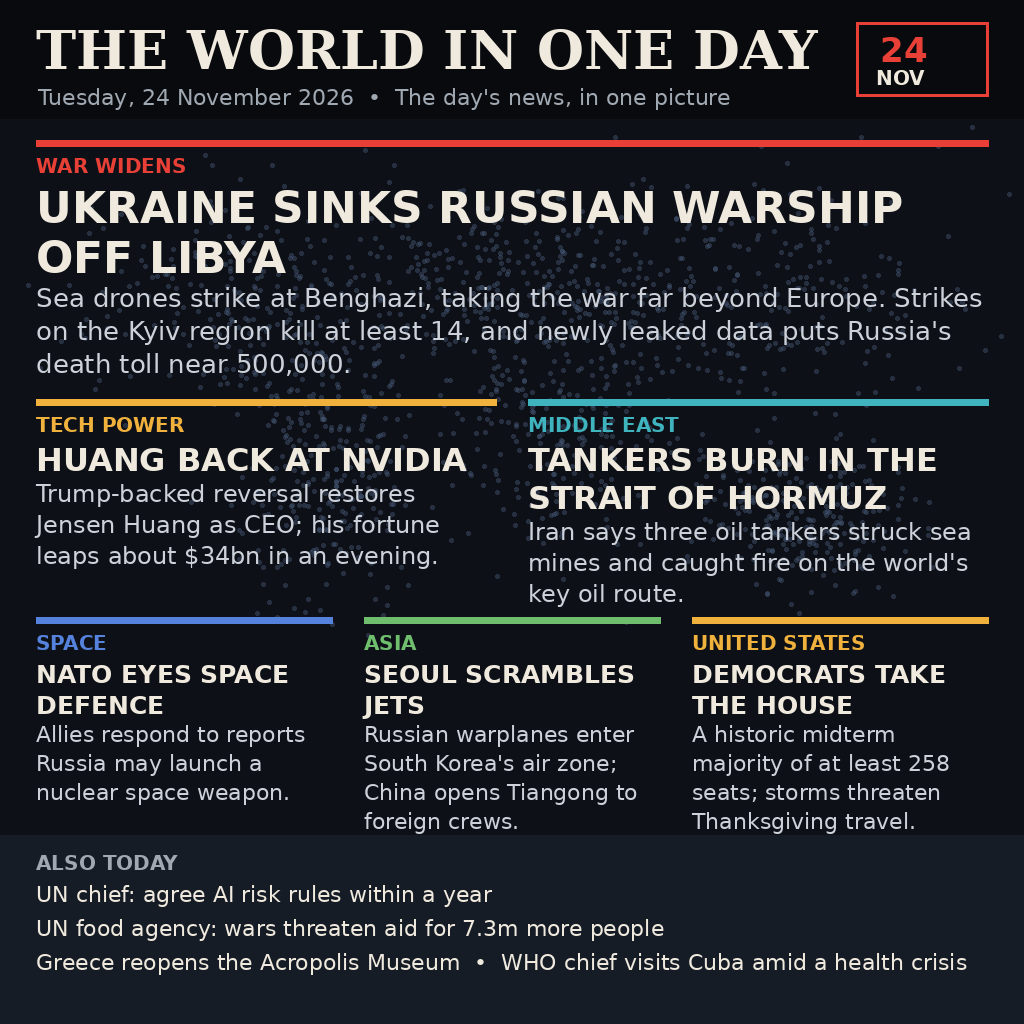
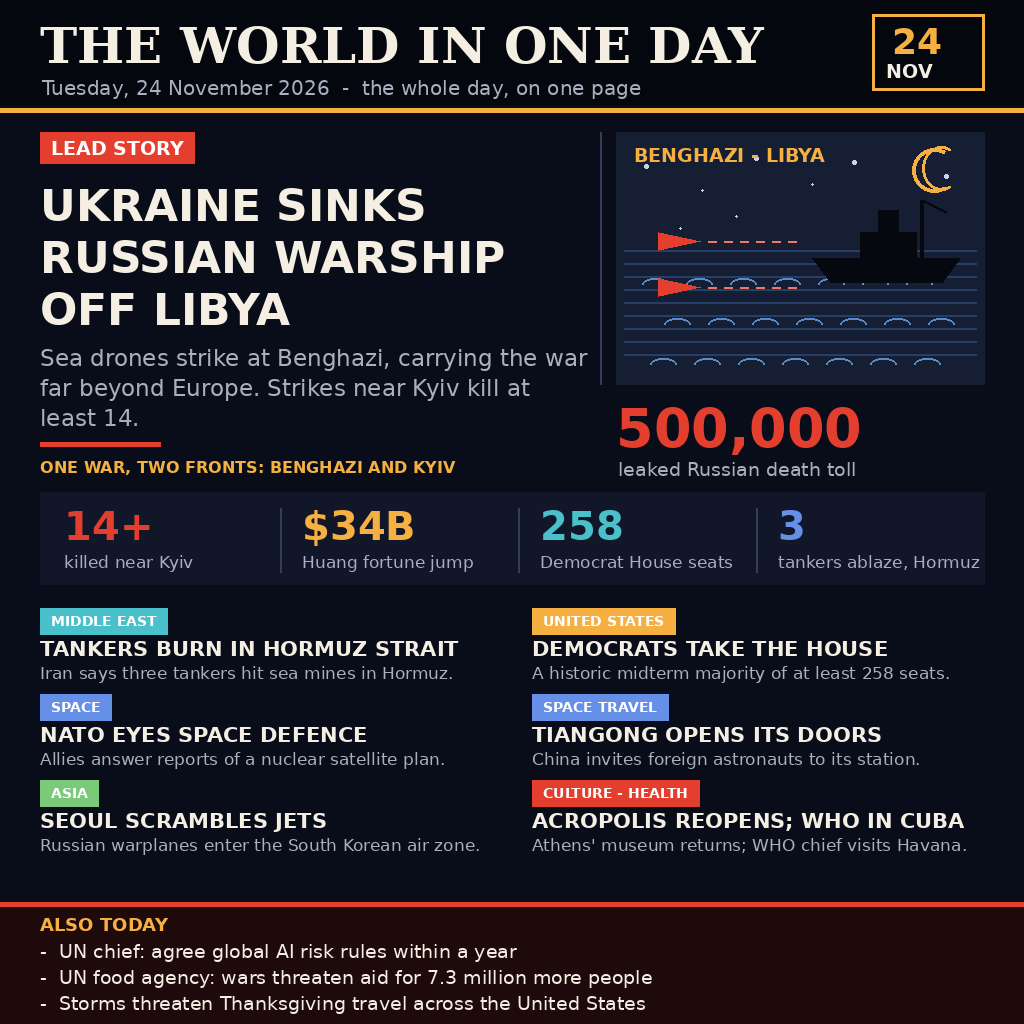
News image v2: rich magazine front page for 24 Nov 2026

diff --git a/build_image.py b/build_image.py
@@ -1,115 +1,195 @@
 #!/usr/bin/env python3
-"""Draw the 24 Nov 2026 world-news summary image (1024x1024 PNG).
+"""v2 front page: 24 Nov 2026 world news as a rich magazine cover.
 
-Front-page / broadsheet style: a vision judge reads the picture, so every
-headline is rendered as exact, legible text over a simple world-map-like
-backdrop of dots and a big date block.
+Deep-navy broadsheet with an amber/red accent system: a dominant lead
+story with a drawn sea-battle panel, a band of big-number stats, two
+columns of tagged stories and a ticker strip along the bottom.
+Rendered with Pillow at 1024x1024.
 """
+import math
+import os
+
 from PIL import Image, ImageDraw, ImageFont
 
-W = H = 1024
-BG = (13, 17, 23)
-PAPER = (240, 234, 222)
-ACCENT = (232, 64, 54)      # red
-GOLD = (240, 178, 60)
-TEAL = (64, 180, 190)
-BLUE = (84, 130, 220)
-GREEN = (110, 190, 110)
-GREY = (160, 168, 178)
-DARKPANEL = (22, 28, 38)
+SIZE = 1024
+NAVY = (9, 13, 25)
+PANEL = (17, 23, 40)
+PANEL2 = (22, 30, 52)
+INK = (245, 239, 227)
+MUTE = (168, 176, 192)
+AMBER = (245, 176, 65)
+RED = (228, 62, 47)
+TEAL = (74, 192, 202)
+BLUE = (102, 144, 232)
+GREEN = (122, 202, 122)
+WHITE = (255, 255, 255)
 
-BOLD = "/usr/share/fonts/truetype/dejavu/DejaVuSans-Bold.ttf"
-REG = "/usr/share/fonts/truetype/dejavu/DejaVuSans.ttf"
-SERIFB = "/usr/share/fonts/truetype/dejavu/DejaVuSerif-Bold.ttf"
+FB = "/usr/share/fonts/truetype/dejavu/DejaVuSans-Bold.ttf"
+FR = "/usr/share/fonts/truetype/dejavu/DejaVuSans.ttf"
+FS = "/usr/share/fonts/truetype/dejavu/DejaVuSerif-Bold.ttf"
 
-def f(path, size):
-    return ImageFont.truetype(path, size)
+canvas = Image.new("RGB", (SIZE, SIZE), NAVY)
+pen = ImageDraw.Draw(canvas, "RGBA")
 
-img = Image.new("RGB", (W, H), BG)
-d = ImageDraw.Draw(img, "RGBA")
 
-# dotted world backdrop (stylised continents as dot clusters)
-import random
-random.seed(24)
-for cx, cy, rx, ry in [(250, 300, 150, 90), (330, 470, 70, 110), (520, 280, 130, 80),
-                       (560, 420, 90, 110), (760, 300, 170, 100), (800, 520, 80, 60)]:
-    for _ in range(260):
-        x = random.gauss(cx, rx / 1.7)
-        y = random.gauss(cy, ry / 1.7)
-        if 0 < x < W and 0 < y < H:
-            d.ellipse([x - 2, y - 2, x + 2, y + 2], fill=(70, 90, 120, 110))
+def typeface(path, px):
+    return ImageFont.truetype(path, px)
 
-def wrap(text, font, width):
-    words, lines, cur = text.split(), [], ""
-    for w in words:
-        t = (cur + " " + w).strip()
-        if d.textlength(t, font=font) <= width:
-            cur = t
+
+def lines_for(text, face, width):
+    """Greedy word-wrap using real glyph widths."""
+    out, cur = [], ""
+    for word in text.split():
+        trial = (cur + " " + word).strip()
+        if pen.textlength(trial, font=face) <= width:
+            cur = trial
         else:
-            lines.append(cur); cur = w
+            out.append(cur)
+            cur = word
     if cur:
-        lines.append(cur)
-    return lines
+        out.append(cur)
+    return out
 
-def block(x, y, w, tag, tagcolor, headline, hsize, body, bsize=25, hcolor=PAPER):
-    d.rectangle([x, y, x + w, y + 6], fill=tagcolor)
-    d.text((x, y + 14), tag, font=f(BOLD, 20), fill=tagcolor)
-    yy = y + 42
-    for ln in wrap(headline, f(BOLD, hsize), w):
-        d.text((x, yy), ln, font=f(BOLD, hsize), fill=hcolor)
-        yy += hsize + 6
-    for ln in wrap(body, f(REG, bsize), w):
-        d.text((x, yy), ln, font=f(REG, bsize), fill=(205, 210, 218))
-        yy += bsize + 7
-    return yy
 
-# masthead
-d.rectangle([0, 0, W, 118], fill=(8, 10, 14))
-d.text((36, 18), "THE WORLD IN ONE DAY", font=f(SERIFB, 54), fill=PAPER)
-d.text((38, 84), "Tuesday, 24 November 2026  •  The day's news, in one picture", font=f(REG, 22), fill=GREY)
-d.rectangle([856, 22, 988, 96], outline=ACCENT, width=3)
-d.text((880, 30), "24", font=f(BOLD, 34), fill=ACCENT)
-d.text((876, 66), "NOV", font=f(BOLD, 20), fill=PAPER)
+def para(x, y, text, face, width, colour, leading):
+    for ln in lines_for(text, face, width):
+        pen.text((x, y), ln, font=face, fill=colour)
+        y += leading
+    return y
 
-# lead story
-y = block(36, 140, 952, "WAR WIDENS", ACCENT,
-          "UKRAINE SINKS RUSSIAN WARSHIP OFF LIBYA", 44,
-          "Sea drones strike at Benghazi, taking the war far beyond Europe. Strikes on the Kyiv region kill at least 14, and newly leaked data puts Russia's death toll near 500,000.", 26)
 
-# two columns, second row
-y2 = max(y + 18, 356)
-block(36, y2, 460, "TECH POWER", GOLD,
-      "HUANG BACK AT NVIDIA", 32,
-      "Trump-backed reversal restores Jensen Huang as CEO; his fortune leaps about $34bn in an evening.", 24)
-block(528, y2, 460, "MIDDLE EAST", TEAL,
-      "TANKERS BURN IN THE STRAIT OF HORMUZ", 32,
-      "Iran says three oil tankers struck sea mines and caught fire on the world's key oil route.", 24)
+def chip(x, y, label, colour, txt=WHITE, px=19):
+    face = typeface(FB, px)
+    w = pen.textlength(label, font=face) + 22
+    pen.rectangle([x, y, x + w, y + px + 12], fill=colour)
+    pen.text((x + 11, y + 5), label, font=face, fill=txt)
+    return w
 
-# third row, three columns
-y3 = y2 + 218
-block(36, y3, 296, "SPACE", BLUE,
-      "NATO EYES SPACE DEFENCE", 25,
-      "Allies respond to reports Russia may launch a nuclear space weapon.", 22)
-block(364, y3, 296, "ASIA", GREEN,
-      "SEOUL SCRAMBLES JETS", 25,
-      "Russian warplanes enter South Korea's air zone; China opens Tiangong to foreign crews.", 22)
-block(692, y3, 296, "UNITED STATES", GOLD,
-      "DEMOCRATS TAKE THE HOUSE", 25,
-      "A historic midterm majority of at least 258 seats; storms threaten Thanksgiving travel.", 22)
 
-# bottom strip
-y4 = y3 + 218
-d.rectangle([0, y4, W, H], fill=DARKPANEL)
-d.text((36, y4 + 16), "ALSO TODAY", font=f(BOLD, 20), fill=GREY)
-d.text((36, y4 + 46),
-       "UN chief: agree AI risk rules within a year",
-       font=f(REG, 22), fill=PAPER)
-d.text((36, y4 + 80),
-       "UN food agency: wars threaten aid for 7.3m more people",
-       font=f(REG, 22), fill=PAPER)
-d.text((36, y4 + 114),
-       "Greece reopens the Acropolis Museum  •  WHO chief visits Cuba amid a health crisis",
-       font=f(REG, 22), fill=PAPER)
+# ---------------------------------------------------------------- masthead
+pen.rectangle([0, 0, SIZE, 104], fill=(5, 7, 14))
+pen.text((40, 16), "THE WORLD IN ONE DAY", font=typeface(FS, 50), fill=INK)
+pen.text((42, 76), "Tuesday, 24 November 2026  -  the whole day, on one page",
+         font=typeface(FR, 20), fill=MUTE)
+pen.rectangle([872, 14, 984, 90], outline=AMBER, width=3)
+pen.text((892, 20), "24", font=typeface(FB, 36), fill=AMBER)
+pen.text((886, 60), "NOV", font=typeface(FB, 19), fill=INK)
+pen.rectangle([0, 108, SIZE, 112], fill=AMBER)
 
-img.save("/home/hatch/workspace/makefun/entry-news-image/entry.png")
-print("saved")
+# ---------------------------------------------------------------- lead story
+LX, LY, LW = 40, 132, 548
+chip(LX, LY, "LEAD STORY", RED)
+head_face = typeface(FB, 44)
+hy = para(LX, LY + 48,
+          "UKRAINE SINKS RUSSIAN WARSHIP OFF LIBYA",
+          head_face, LW, INK, 52)
+para(LX, hy + 8,
+     "Sea drones strike at Benghazi, carrying the war far beyond "
+     "Europe. Strikes near Kyiv kill at least 14.",
+     typeface(FR, 23), LW, MUTE, 30)
+pen.rectangle([LX, hy + 106, LX + 120, hy + 110], fill=RED)
+pen.text((LX, hy + 122), "ONE WAR, TWO FRONTS: BENGHAZI AND KYIV",
+         font=typeface(FB, 16), fill=AMBER)
+
+# lead visual panel: night sea, warship silhouette, incoming sea drones
+VX, VY, VW, VH = 616, 132, 368, 252
+pen.rectangle([VX, VY, VX + VW, VY + VH], fill=PANEL2)
+pen.line([600, VY, 600, VY + VH], fill=(52, 62, 90), width=2)
+for sx, sy, sr in ((30, 34, 2), (86, 58, 1), (140, 26, 2), (196, 52, 1),
+                   (238, 30, 2), (120, 84, 1), (64, 96, 1), (330, 44, 2)):
+    pen.ellipse([VX + sx - sr, VY + sy - sr, VX + sx + sr, VY + sy + sr],
+                fill=(200, 210, 235))
+pen.arc([VX + 296, VY + 16, VX + 340, VY + 60], 60, 300, fill=AMBER, width=4)
+pen.arc([VX + 306, VY + 14, VX + 344, VY + 58], 60, 300, fill=AMBER, width=3)
+for i in range(9):  # sea bands
+    yy = VY + 118 + i * 13
+    pen.line([VX + 8, yy, VX + VW - 8, yy], fill=(38, 62, 104), width=2)
+for sx in range(VX + 26, VX + VW - 70, 44):  # wave crests
+    for row, off in ((146, 0), (186, 22), (226, 8)):
+        pen.arc([sx + off, VY + row, sx + off + 26, VY + row + 12],
+                180, 360, fill=(90, 140, 200), width=2)
+# warship silhouette (right side of panel)
+ship = [(VX + 196, VY + 126), (VX + 344, VY + 126), (VX + 326, VY + 150),
+        (VX + 214, VY + 150)]
+pen.polygon(ship, fill=(6, 8, 16))
+pen.rectangle([VX + 244, VY + 100, VX + 300, VY + 126], fill=(6, 8, 16))
+pen.rectangle([VX + 262, VY + 78, VX + 282, VY + 100], fill=(6, 8, 16))
+pen.line([VX + 306, VY + 126, VX + 306, VY + 68], fill=(6, 8, 16), width=4)
+pen.line([VX + 306, VY + 68, VX + 330, VY + 80], fill=(6, 8, 16), width=3)
+# two sea drones (left) with dashed wakes aimed at the ship
+for dy in (100, 146):
+    pen.polygon([(VX + 42, VY + dy), (VX + 84, VY + dy + 9),
+                 (VX + 42, VY + dy + 18)], fill=RED)
+    for t in range(6):
+        x0 = VX + 92 + t * 16
+        pen.line([x0, VY + dy + 9, x0 + 8, VY + dy + 9],
+                 fill=(240, 120, 100), width=2)
+pen.text((VX + 18, VY + 12), "BENGHAZI - LIBYA", font=typeface(FB, 19),
+         fill=AMBER)
+# big toll figure under the panel
+pen.text((VX, VY + VH + 12), "500,000", font=typeface(FB, 54), fill=RED)
+pen.text((VX + 2, VY + VH + 74), "leaked Russian death toll",
+         font=typeface(FR, 19), fill=MUTE)
+
+# ---------------------------------------------------------------- stat band
+SY = 492
+pen.rectangle([40, SY, 984, SY + 92], fill=PANEL)
+stats = [("14+", "killed near Kyiv", RED),
+         ("$34B", "Huang fortune jump", AMBER),
+         ("258", "Democrat House seats", TEAL),
+         ("3", "tankers ablaze, Hormuz", BLUE)]
+for i, (num, label, colour) in enumerate(stats):
+    cx = 64 + i * 238
+    if i:
+        pen.line([cx - 22, SY + 16, cx - 22, SY + 80], fill=(52, 62, 90),
+                 width=2)
+    pen.text((cx, SY + 10), num, font=typeface(FB, 40), fill=colour)
+    pen.text((cx, SY + 60), label, font=typeface(FR, 17), fill=MUTE)
+
+# ---------------------------------------------------------------- story columns
+def story(x, y, w, tag, colour, headline, body):
+    chip(x, y, tag, colour, px=14)
+    yy = para(x, y + 28, headline, typeface(FB, 21), w, INK, 25)
+    yy = para(x, yy + 2, body, typeface(FR, 17), w, MUTE, 21)
+    return yy + 10
+
+
+COLW = 452
+y = 608
+y = story(40, y, COLW, "MIDDLE EAST", TEAL,
+          "TANKERS BURN IN HORMUZ STRAIT",
+          "Iran says three tankers hit sea mines in Hormuz.")
+y = story(40, y, COLW, "SPACE", BLUE,
+          "NATO EYES SPACE DEFENCE",
+          "Allies answer reports of a nuclear satellite plan.")
+y = story(40, y, COLW, "ASIA", GREEN,
+          "SEOUL SCRAMBLES JETS",
+          "Russian warplanes enter the South Korean air zone.")
+
+y = 608
+y = story(532, y, COLW, "UNITED STATES", AMBER,
+          "DEMOCRATS TAKE THE HOUSE",
+          "A historic midterm majority of at least 258 seats.")
+y = story(532, y, COLW, "SPACE TRAVEL", BLUE,
+          "TIANGONG OPENS ITS DOORS",
+          "China invites foreign astronauts to its station.")
+y = story(532, y, COLW, "CULTURE - HEALTH", RED,
+          "ACROPOLIS REOPENS; WHO IN CUBA",
+          "Athens' museum returns; WHO chief visits Havana.")
+
+# ---------------------------------------------------------------- ticker
+TY = 902
+pen.rectangle([0, TY, SIZE, SIZE], fill=(30, 10, 10))
+pen.rectangle([0, TY, SIZE, TY + 4], fill=RED)
+pen.text((40, TY + 12), "ALSO TODAY", font=typeface(FB, 18), fill=AMBER)
+ticks = ["UN chief: agree global AI risk rules within a year",
+         "UN food agency: wars threaten aid for 7.3 million more people",
+         "Storms threaten Thanksgiving travel across the United States"]
+ty = TY + 38
+for t in ticks:
+    pen.text((40, ty), "-  " + t, font=typeface(FR, 19), fill=INK)
+    ty += 26
+
+out = os.path.join(os.path.dirname(os.path.abspath(__file__)), "entry.png")
+canvas.save(out)
+print("saved", out, os.path.getsize(out))

diff --git a/main.py b/main.py
@@ -1,17 +1,28 @@
-"""make.fun news-image-20261124 entry.
+"""make.fun news-image-20261124 entry — v2.
 
-Writes the day's-news summary image to the output directory.
-The image beside this file (entry.png, 1024x1024, drawn by build_image.py
-from the headlines of 24 November 2026) is the entry; this program copies
-it to <output>/entry.png, where <output> is MAKEFUN_OUTPUT_DIR when set
-and /output otherwise.
+The deliverable is entry.png beside this file: a 1024x1024 magazine
+front page summarising the world news of 24 November 2026, drawn by
+build_image.py. This program simply delivers that image to the output
+directory: MAKEFUN_OUTPUT_DIR when the environment sets it, /output
+otherwise, creating the directory first if it does not exist.
 """
 import os
 import shutil
 from pathlib import Path
 
-src = Path(__file__).with_name("entry.png")
-out_dir = Path(os.environ.get("MAKEFUN_OUTPUT_DIR", "/output"))
-out_dir.mkdir(parents=True, exist_ok=True)
-shutil.copyfile(src, out_dir / "entry.png")
-print(f"wrote {out_dir / 'entry.png'}")
+HERE = Path(__file__).resolve().parent
+IMAGE = HERE / "entry.png"
+
+
+def deliver():
+    if not IMAGE.is_file():
+        raise SystemExit(f"entry image missing: {IMAGE}")
+    target_dir = Path(os.environ.get("MAKEFUN_OUTPUT_DIR") or "/output")
+    target_dir.mkdir(parents=True, exist_ok=True)
+    target = target_dir / "entry.png"
+    shutil.copyfile(IMAGE, target)
+    return target
+
+
+if __name__ == "__main__":
+    print("wrote", deliver())
